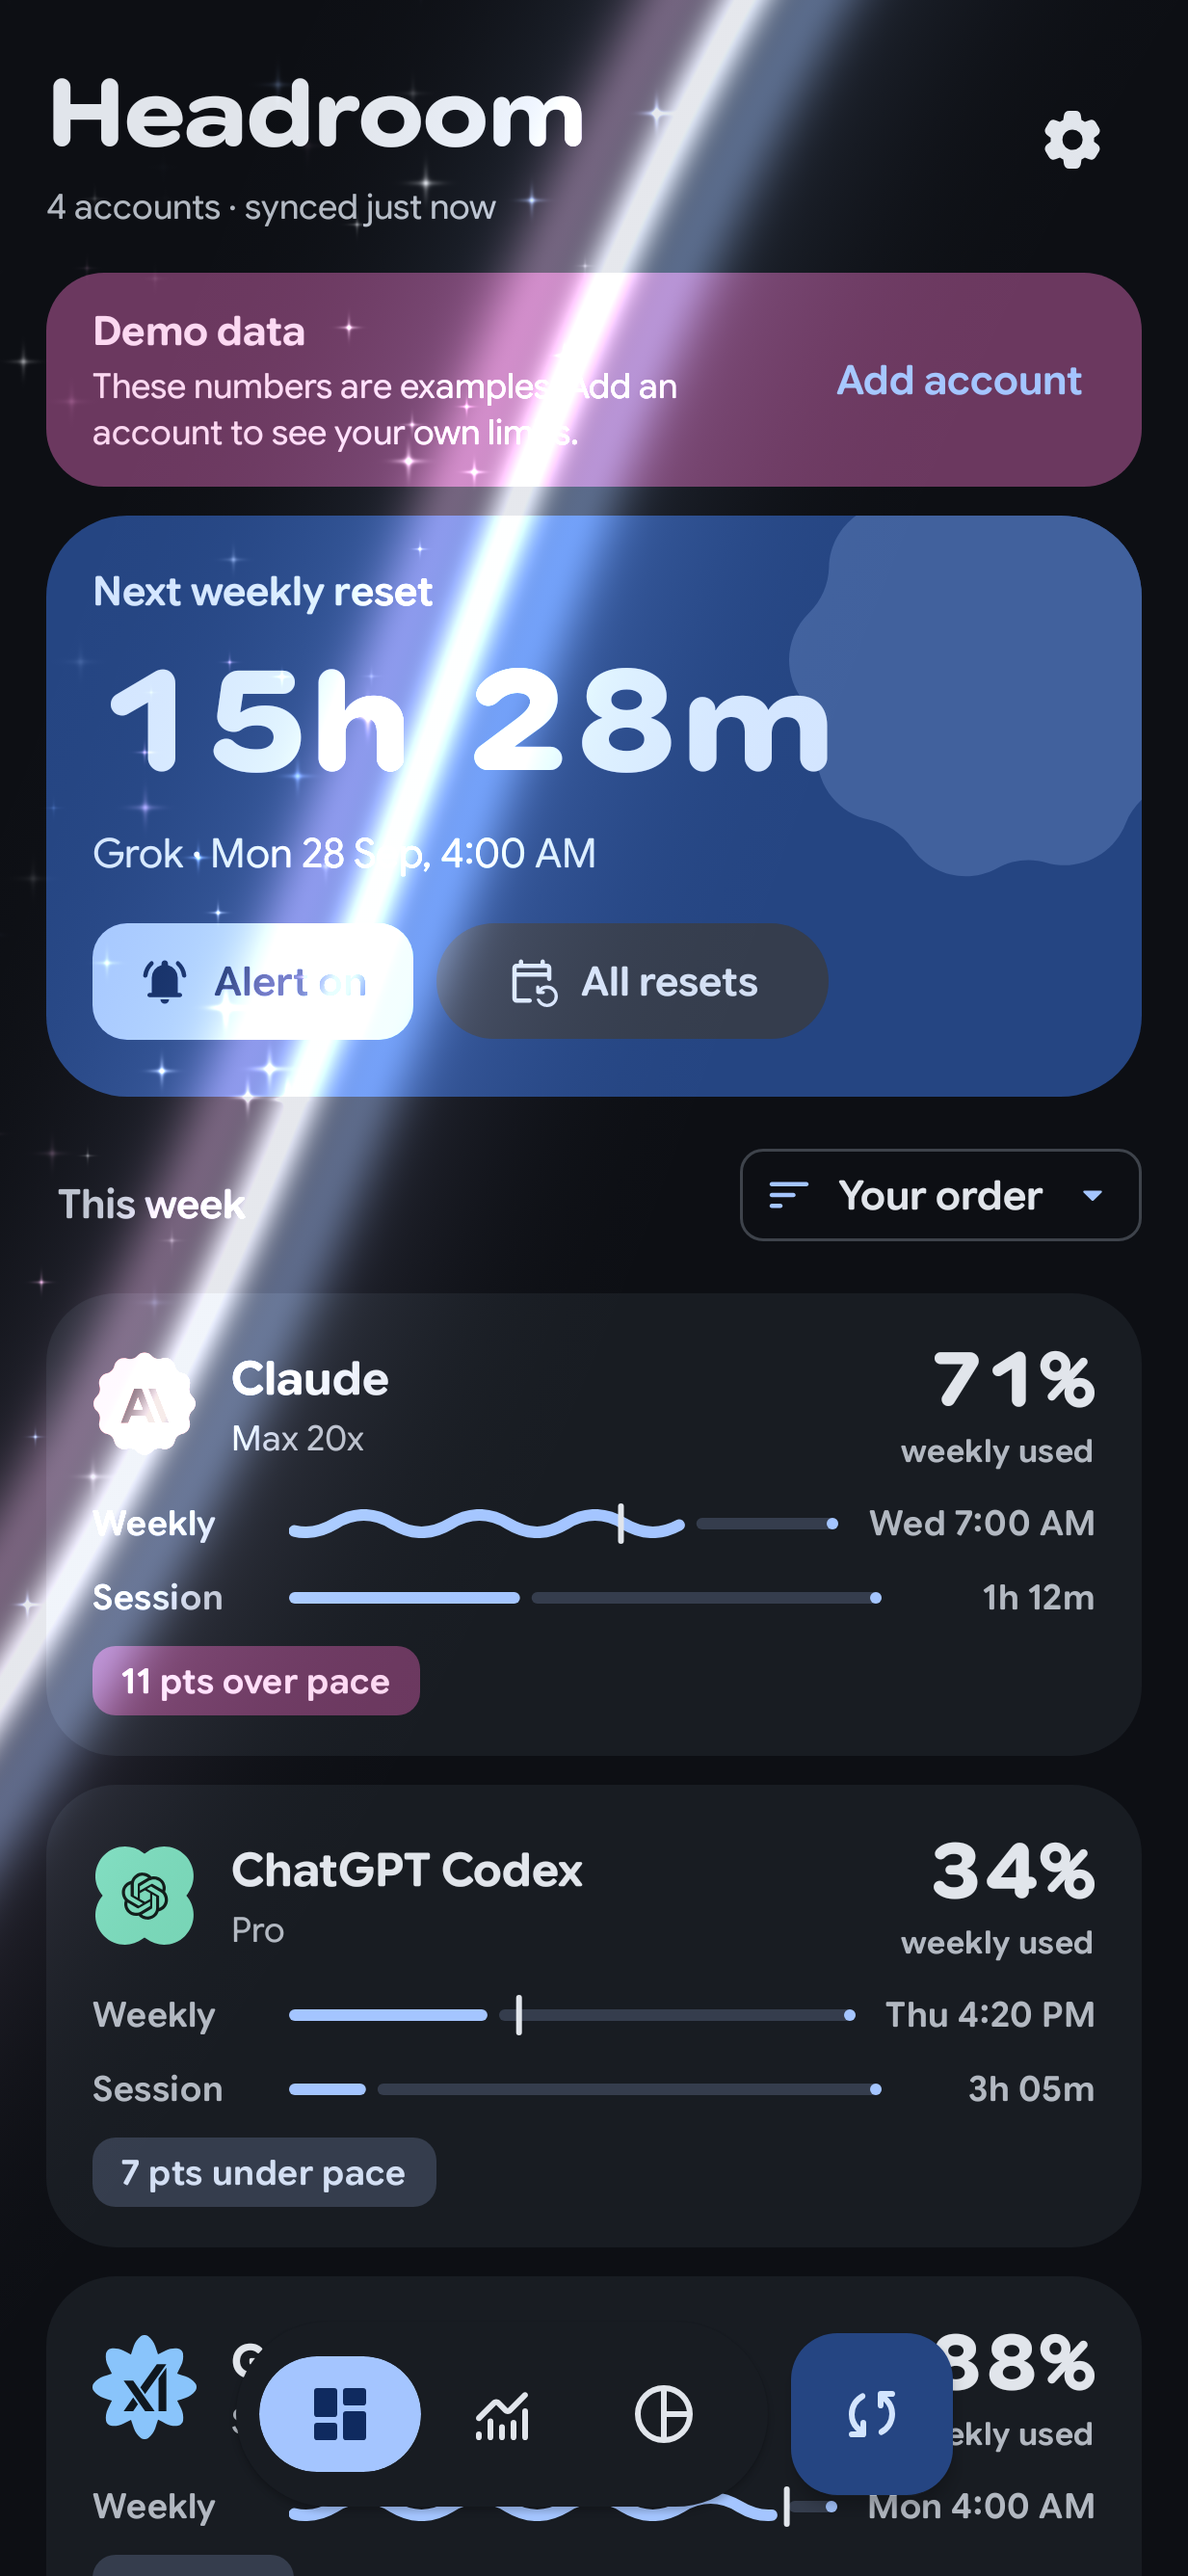
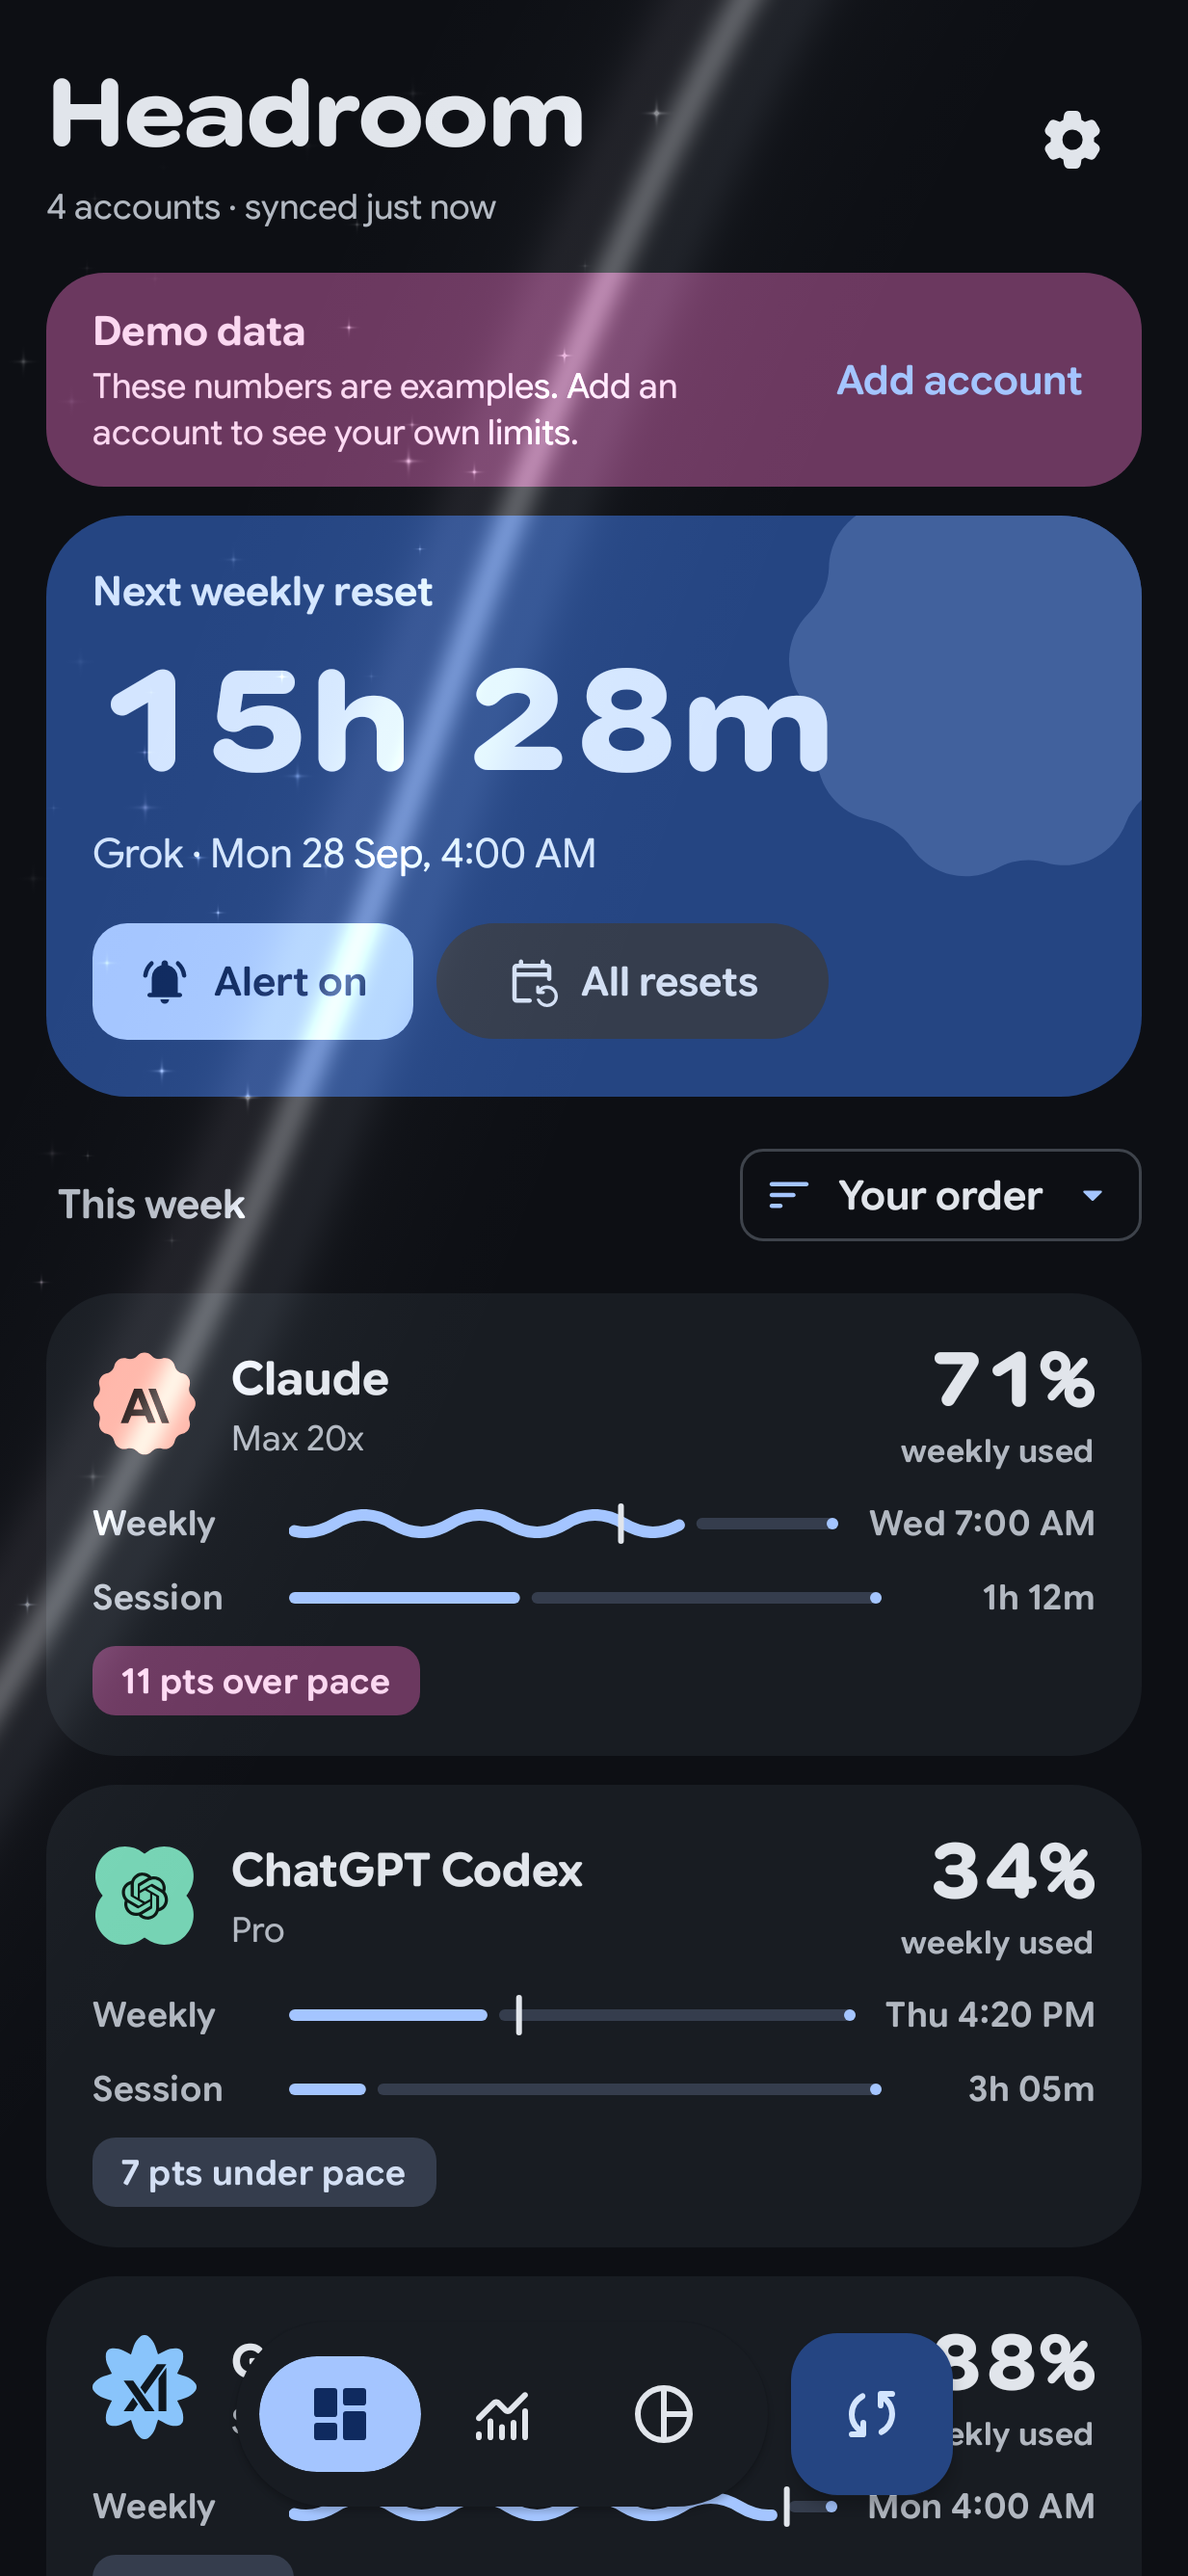
Make the refresh shimmer understated
The sheen was too intense and too strongly coloured. The core is now
fainter and thinner, the colours are washed toward white, and there are
fewer, smaller stars. On a light theme, where white would not show, the
stars are a softened primary instead.

Changed region(s): [[0.0, 0.0, 0.7397, 0.7452], [0.339, 0.0621, 0.3698, 0.0932]]

diff --git a/app/src/main/kotlin/dev/sebastiano/headroom/ui/delights/RefreshShimmer.kt b/app/src/main/kotlin/dev/sebastiano/headroom/ui/delights/RefreshShimmer.kt
@@ -17,14 +17,15 @@ import androidx.compose.ui.graphics.toArgb
  * The refresh shimmer: a sheen of light sweeps across the screen and leaves a trail of sparkles.
  * - The front eases in and out, bends and wavers a little, and turns slightly as it travels. It
  *   travels during the first 70% of the time.
- * - The front is a thin bright core in the `shine` colour, with a `tint` fringe ahead of it, an
- *   `accent` fringe behind it and a soft glow around it.
+ * - The front is a thin, faint core in the `shine` colour, with a whisper of `tint` ahead of it, of
+ *   `accent` behind it, and a soft glow. Every colour is washed toward white, so it only hints.
  * - Some cells of a jittered grid hold a four-pointed star. A star lights up when the front reaches
  *   it, then twinkles and fades as the front moves on. For the last 30% of the time only the trail
  *   is left, fading out.
  *
  * Uniforms: `size` in pixels, `progress` from 0 to 1, `strength` the highest opacity, `density` in
- * pixels per dp, and the colours `shine`, `tint` and `accent`.
+ * pixels per dp, `whiten` how far the colours are washed toward white, and the colours `shine` (the
+ * core), `sparkle` (most stars), `tint` and `accent`.
  */
 private const val SHIMMER_SHADER =
     """
@@ -33,6 +34,8 @@ uniform float progress;
 uniform float strength;
 uniform float density;
 layout(color) uniform half4 shine;
+layout(color) uniform half4 sparkle;
+uniform float whiten;
 layout(color) uniform half4 tint;
 layout(color) uniform half4 accent;
 
@@ -79,13 +82,17 @@ half4 main(float2 coord) {
 
     // Positive ahead of the front, negative behind it.
     float d = bent(coord, sweep, normal, reach) - front;
-    float core = bell(d / 0.012) * 0.9;
-    float ahead = bell((d - 0.028) / 0.018) * 0.4;
-    float behind = bell((d + 0.028) / 0.018) * 0.4;
-    float glow = bell(d / 0.08) * 0.16;
-    float3 glowColour = mix(float3(tint.rgb), float3(accent.rgb), across);
-    float3 rgb = float3(shine.rgb) * core + float3(tint.rgb) * ahead
-        + float3(accent.rgb) * behind + glowColour * glow;
+    // The colours only hint: each is washed toward white, less so on a light theme, where white
+    // would not show.
+    float3 softTint = mix(float3(tint.rgb), float3(1.0), whiten);
+    float3 softAccent = mix(float3(accent.rgb), float3(1.0), whiten);
+    float core = bell(d / 0.009) * 0.55;
+    float ahead = bell((d - 0.022) / 0.014) * 0.12;
+    float behind = bell((d + 0.022) / 0.014) * 0.12;
+    float glow = bell(d / 0.07) * 0.05;
+    float3 glowColour = mix(softTint, softAccent, across);
+    float3 rgb = float3(shine.rgb) * core + softTint * ahead + softAccent * behind
+        + glowColour * glow;
     float weight = core + ahead + behind + glow;
 
     float cellSize = 22.0 * density;
@@ -97,16 +104,15 @@ half4 main(float2 coord) {
             float2 jitter = float2(hash(cell + 1.7), hash(cell + 4.1)) - 0.5;
             float2 centre = (cell + 0.5 + jitter * 0.8) * cellSize;
             float passed = front - bent(centre, sweep, normal, reach);
-            if (h > 0.68 && passed > -0.005) {
+            if (h > 0.76 && passed > -0.005) {
                 float life = exp(-max(passed, 0.0) / (0.05 + 0.13 * hash(cell + 9.3)));
                 float twinkle =
                     0.55 + 0.45 * sin(progress * (30.0 + 25.0 * hash(cell + 2.9)) + h * 40.0);
-                float radius = (2.0 + 3.5 * hash(cell + 7.7)) * density;
-                float lit = star(coord - centre, radius) * life * twinkle;
+                float radius = (1.4 + 2.4 * hash(cell + 7.7)) * density;
+                float lit = star(coord - centre, radius) * life * twinkle * 0.8;
                 // Most stars shine in the shine colour; some take the tint or the accent.
                 float pick = hash(cell + 5.3);
-                float3 colour = pick < 0.6 ? float3(shine.rgb)
-                    : (pick < 0.8 ? float3(tint.rgb) : float3(accent.rgb));
+                float3 colour = pick < 0.7 ? float3(sparkle.rgb) : (pick < 0.85 ? softTint : softAccent);
                 rgb += colour * lit;
                 weight += lit;
             }
@@ -127,15 +133,20 @@ internal fun RefreshShimmer(progress: () -> Float, modifier: Modifier = Modifier
     val strength = if (dark) DARK_STRENGTH else LIGHT_STRENGTH
     val shader = remember { RuntimeShader(SHIMMER_SHADER) }
     val brush = remember(shader) { ShaderBrush(shader) }
-    // On a dark theme the core shines white; on a light one white would vanish into the surface,
-    // so it shines in a light tint of the primary colour.
+    // On a dark theme the light is white. On a light one white would vanish into the surface, so
+    // the core is a pale wash of the primary colour and the stars are a softened primary.
     val shine = if (dark) Color.White else lerp(scheme.primary, Color.White, LIGHT_SHINE_WHITENESS)
+    val sparkle =
+        if (dark) Color.White else lerp(scheme.primary, Color.White, LIGHT_SPARKLE_WHITENESS)
+    val whiten = if (dark) DARK_WHITEN else LIGHT_WHITEN
     Canvas(modifier = modifier) {
         shader.setFloatUniform("size", size.width, size.height)
         shader.setFloatUniform("progress", progress())
         shader.setFloatUniform("strength", strength)
         shader.setFloatUniform("density", density)
         shader.setColorUniform("shine", shine.toArgb())
+        shader.setColorUniform("sparkle", sparkle.toArgb())
+        shader.setFloatUniform("whiten", whiten)
         shader.setColorUniform("tint", scheme.primary.toArgb())
         shader.setColorUniform("accent", scheme.tertiary.toArgb())
         // Adding light makes a dark theme glow; on a light theme it would vanish into the white.
@@ -145,7 +156,11 @@ internal fun RefreshShimmer(progress: () -> Float, modifier: Modifier = Modifier
 
 private const val DARK_SURFACE_LUMINANCE = 0.5f
 /** The highest opacity, reached only in the thin core and the stars: bright, but brief. */
-private const val LIGHT_STRENGTH = 0.8f
-private const val DARK_STRENGTH = 0.85f
+private const val LIGHT_STRENGTH = 0.55f
+private const val DARK_STRENGTH = 0.5f
 /** On a light theme the shine is the primary colour, lightened this much toward white. */
-private const val LIGHT_SHINE_WHITENESS = 0.2f
+private const val LIGHT_SHINE_WHITENESS = 0.6f
+private const val LIGHT_SPARKLE_WHITENESS = 0.25f
+/** How far the tint and the accent are washed toward white. */
+private const val DARK_WHITEN = 0.65f
+private const val LIGHT_WHITEN = 0.2f
